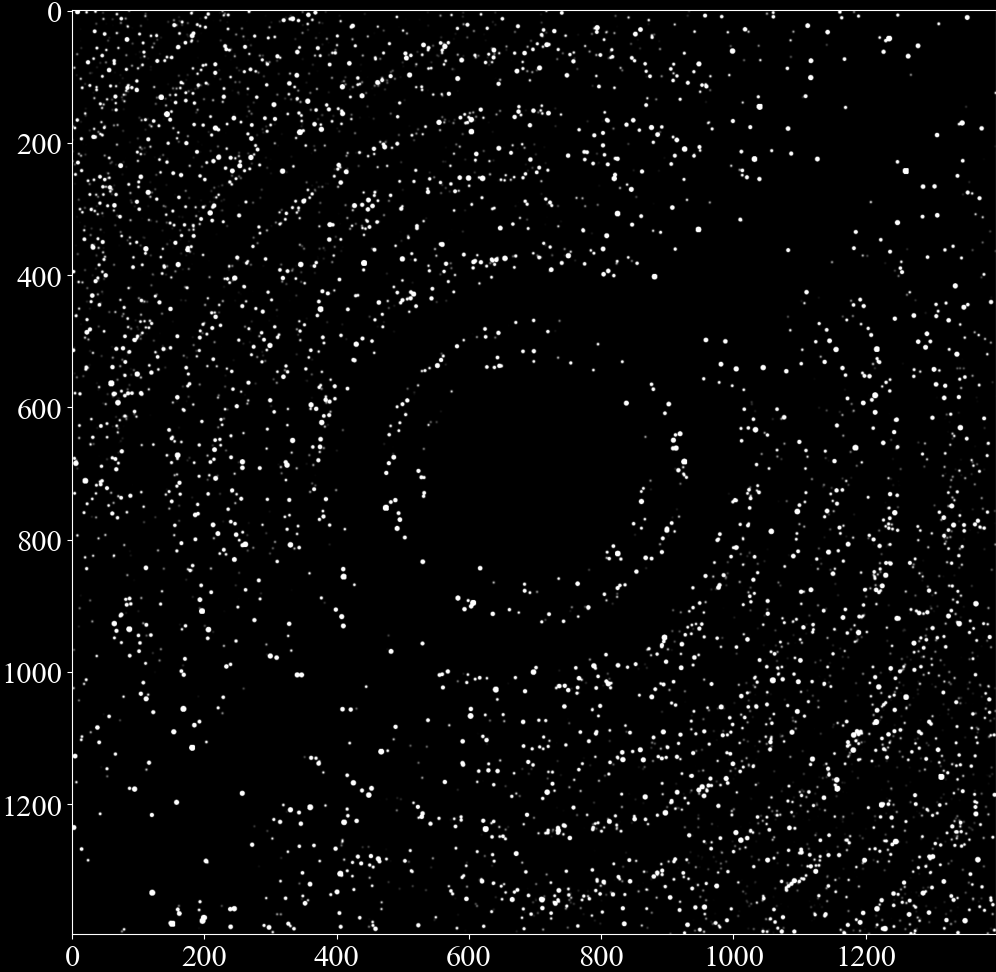
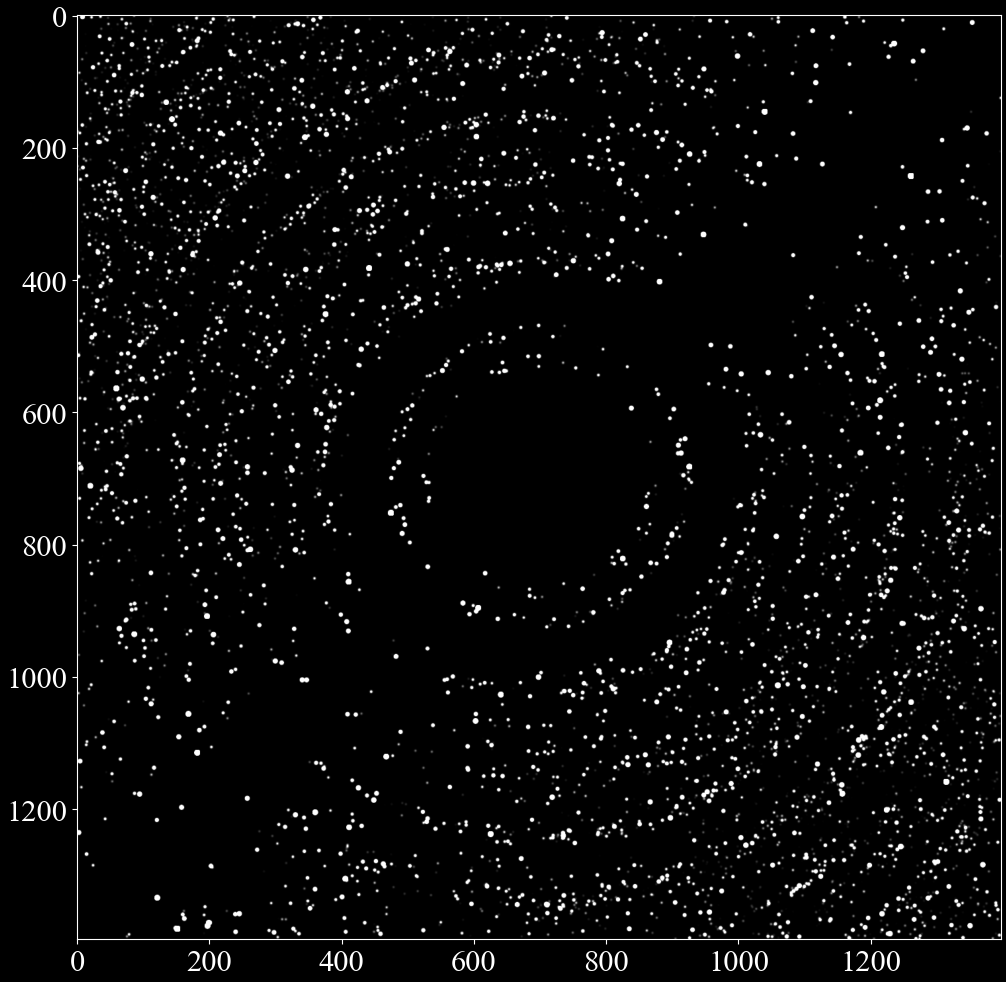
Padd README example image

diff --git a/README.rst b/README.rst
@@ -201,7 +201,7 @@ The resulting rendered detector frame will look something like the below. Note t
 
 .. image:: https://github.com/FABLE-3DXRD/xrd_simulator/blob/main/docs/source/images/diffraction_pattern.png?raw=true
    :align: center
-   :width: 80%
+   :width: 95%
 
 To compute several frames simply change the motion and collect the diffraction again. The sample may be moved before
 each computation using the same or another motion.
